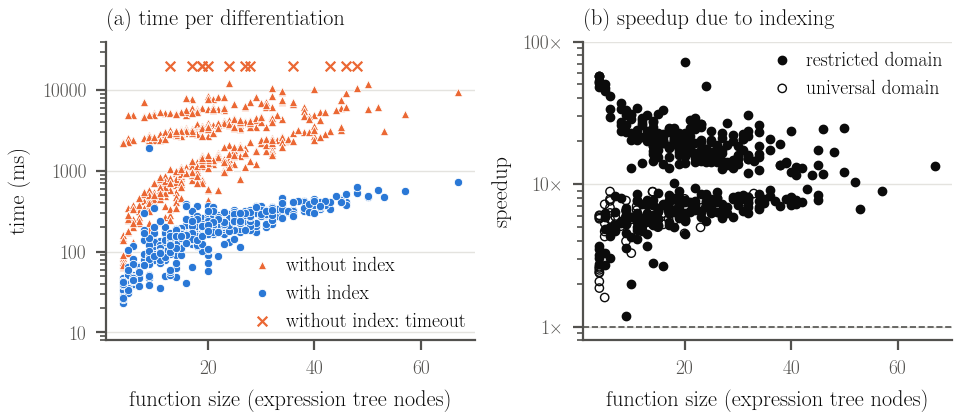
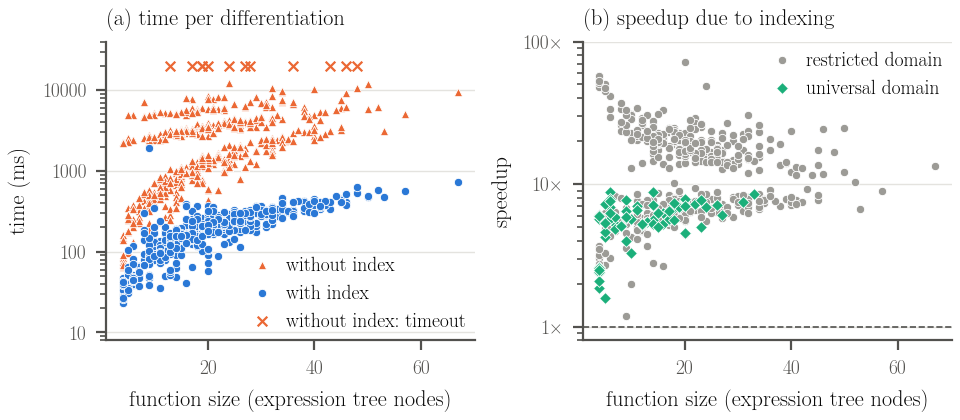
results: recolour Fig. 7b (universal domains highlighted, distinct marker)

diff --git a/results/datamod2026/plot.py b/results/datamod2026/plot.py
@@ -11,6 +11,7 @@ r = list(json.load(open(f"{D}/results.json")).values())
 
 INDEXED, LEGACY = "#2a78d6", "#eb6834"          # categorical slots 1, 2 (validated)
 INK, MUTED, GRID = "#0b0b0b", "#52514e", "#e4e3df"
+UNIVERSAL, NEUTRAL = "#1baf7a", "#9c9b96"     # categorical slot 3 (validated with 1, 2); neutral grey
 
 plt.rcParams.update({
     "font.family": "Latin Modern Roman", "font.size": 8, "axes.titlesize": 8,
@@ -39,10 +40,13 @@ a.legend(frameon=False, loc="lower right", handletextpad=0.2, borderaxespad=0.1)
 
 # (b) per-function speedup (legacy / indexed), marker shape = computed domain
 both = [v for v in r if v["legacy_ok"]]
-for univ, mk, face, lbl in [(False, "o", INK, "restricted domain"), (True, "o", "none", "universal domain")]:
+# restricted (majority) in neutral grey underneath; universal (minority) in
+# categorical slot 3 on top, with a different marker for grayscale print
+for univ, mk, face, size, lbl in [(False, "o", NEUTRAL, 9, "restricted domain"),
+                                  (True, "D", UNIVERSAL, 9, "universal domain")]:
     sel = [v for v in both if v["universal"] == univ]
-    b.scatter([v["size"] for v in sel], [v["t_legacy"] / v["t_indexed"] for v in sel], s=9, marker=mk,
-              facecolor=face, edgecolor=INK, linewidth=0.5, label=lbl)
+    b.scatter([v["size"] for v in sel], [v["t_legacy"] / v["t_indexed"] for v in sel], s=size, marker=mk,
+              facecolor=face, edgecolor="white", linewidth=0.3, label=lbl, zorder=3 if univ else 2)
 b.axhline(1, color=MUTED, linewidth=0.6, linestyle="--")
 b.set_yscale("log"); b.set_ylim(0.8, 100)
 b.yaxis.set_major_formatter(FuncFormatter(lambda v, _: f"{v:g}×"))
